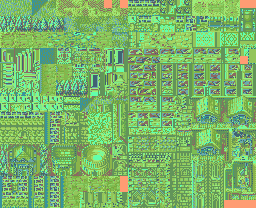
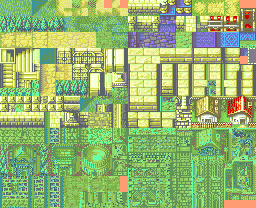
Store tile sheets as 8-bit PNGs coloured by their used palette

diff --git a/tools/scripts/mapchips.py b/tools/scripts/mapchips.py
@@ -10,9 +10,14 @@ The chip sources are:
   - a hints file: the filler entry used for empty chips, and the tile
     choices for chips where several sheet tiles match the same pixels
 
+Tile sheets are 8-bit indexed PNGs in the same palette * 16 + color
+encoding, so each tile can be shown in the palette it is used with.
+Only the low four bits of each pixel reach the 4bpp output.
+
 Usage:
   mapchips.py build   CHIPS.png TERRAIN.txt HINTS.txt OUT.tsa SHEET.4bpp [SHEET2.4bpp]
   mapchips.py extract IN.tsa PAL.pal CHIPS.png TERRAIN.txt HINTS.txt SHEET.4bpp [SHEET2.4bpp]
+  mapchips.py sheet   SHEET.png OUT.4bpp [NUM_TILES]
 """
 
 import struct
@@ -198,8 +203,27 @@ def extract(tsa_path, pal_path, chips_path, terrain_path, hints_path, sheet_path
                 f.write('%03x %04x %04x %04x %04x\n' % ((m,) + tuple(ents[m * 4:m * 4 + 4])))
 
 
+def sheet(png_path, out_path, num_tiles):
+    img = Image.open(png_path)
+    if img.mode != 'P' or img.size[0] != SHEET_W * 8:
+        sys.exit('%s: expected an indexed PNG %d pixels wide' % (png_path, SHEET_W * 8))
+    px = img.load()
+    rows = img.size[1] // 8
+    if num_tiles is None:
+        num_tiles = rows * SHEET_W
+    out = bytearray()
+    for j in range(num_tiles):
+        ox, oy = j % SHEET_W * 8, j // SHEET_W * 8
+        for y in range(8):
+            for x in range(0, 8, 2):
+                out.append(px[ox + x, oy + y] & 15 | (px[ox + x + 1, oy + y] & 15) << 4)
+    open(out_path, 'wb').write(out)
+
+
 def main(argv):
-    if len(argv) >= 7 and argv[1] == 'build':
+    if len(argv) in (4, 5) and argv[1] == 'sheet':
+        sheet(argv[2], argv[3], int(argv[4]) if len(argv) == 5 else None)
+    elif len(argv) >= 7 and argv[1] == 'build':
         build(argv[2], argv[3], argv[4], argv[5], argv[6:])
     elif len(argv) >= 8 and argv[1] == 'extract':
         extract(argv[2], argv[3], argv[4], argv[5], argv[6], argv[7:])
